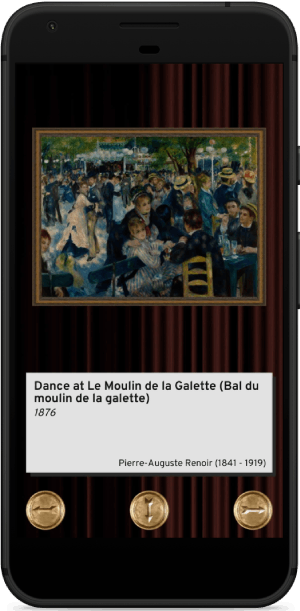
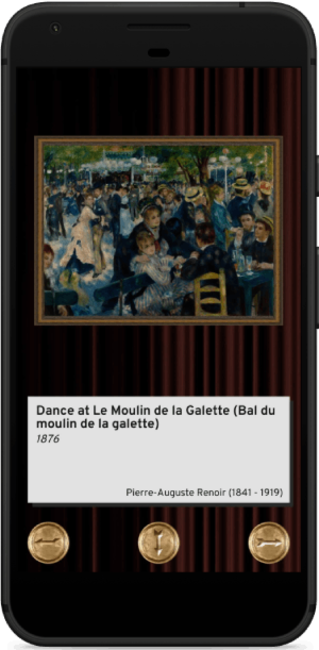
Displaying project images in a carousel

diff --git a/src/components/Project/Project.js b/src/components/Project/Project.js
@@ -15,19 +15,22 @@ const Project = ({ data }) => {
 
   const [md, setMd] = useState();
 
-  const allImages = [
-    {
-      original: "https://lorempixel.com/620/975/"
-    },
-    {
-      original: "https://lorempixel.com/605/811/"
-    },
-    {
-      original: "https://lorempixel.com/608/1200/"
-    }
-  ];
+  // const allImages = [
+  //   {
+  //     original: require("img/projects/rart/1.png")
+  //   },
+  //   {
+  //     original: require("img/projects/rart/2.png")
+  //   },
+  //   {
+  //     original: require("img/projects/rart/3.png")
+  //   }
+  // ];
 
-  // {(images = images.map(image => `original : 'img/projects/${image}`'))}
+  const realImages = images.map(image => ({
+    original: require(`img/projects/${image}`)
+  }));
+  console.log(realImages);
 
   useEffect(() => {
     const markdown = require(`data/projects/${descriptionMd}`);
@@ -74,7 +77,7 @@ const Project = ({ data }) => {
           showThumbnails={false}
           useBrowserFullscreen={false}
           showFullscreenButton={false}
-          items={allImages}
+          items={realImages}
         />
       </div>
     </div>
